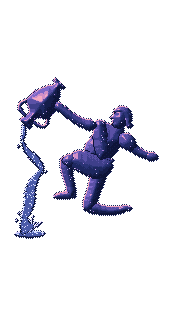
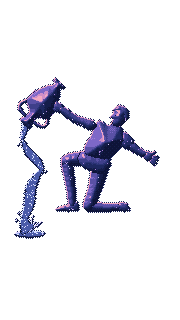
art: the water carrier kneels on the ground, with a neck, a clean tunic, open hand and gripping hand
The near foot now rests on the same ground as the far knee (it floated 12 px up, so the figure
read as falling), the head sits on a visible neck with a smaller hair cap, an ear and an eye, the
mantle that cracked the chest is gone, the torso is rounder so its highlight is smaller, the
outstretched hand has fingers, the jar hand grips the belly and the water leaves the jar's mouth
without a gap.

diff --git a/tools/art/build_aquarius_figure.py b/tools/art/build_aquarius_figure.py
@@ -17,11 +17,14 @@ edges, stardust specks, a thin aura). Spheres and capsules suit a segmented scor
 drawn with them reads as a mannequin.
 
 The stars are points on the body, not its joints, so it keeps human proportions (about seven heads,
-kneeling): the shoulders on Sadalmelik and Sadalsuud, the head above them in profile facing the
-jar, the right arm out to the open hand on epsilon, the left arm holding up a Greek amphora
-(Sadachbia on the forearm, zeta on its belly, pi by its foot, eta at its mouth) tipped to pour, the
-tunic belted at theta, the near knee forward on lambda and the shin down through tau, the far knee
-on the ground at Skat, and the water pouring down the left through phi, psi and 98 to a splash.
+kneeling): the shoulders on Sadalmelik and Sadalsuud, the head on a neck above them in profile
+facing the jar, the right arm out to the open hand on epsilon, the left arm holding up a Greek
+amphora (Sadachbia on the forearm, zeta on its belly, pi by its foot, eta at its mouth), the hand
+round its belly, tipped to pour, the tunic belted at theta with a short skirt, the near thigh
+forward to the knee on lambda and the shin down through tau to a foot flat on the same ground as
+the far knee at Skat, and the water pouring from the jar's mouth down the left through phi, psi
+and 98 to a splash. The torso is one smooth piece of cloth: overlapping drapes on it read as
+cracks.
 The water is its own material on the cool M ramp (M3-M6, a D0 rim, sparse glints).
 No colour outside the Stellar Sun palette; every pixel opaque or empty.
 
@@ -136,6 +139,7 @@ class Shapes(sc.Solids):
         super().__init__()
         self.mat = "body"
         self.mats = []
+        self.eyes = []
 
     def _put(self, *args, **kwargs):
         self.mats.append(self.mat)
@@ -224,73 +228,79 @@ def splash(S, at, width=15.0, lift=-14.0):
     S.mat = "body"
 
 
-def head_in_profile(S, head, lift):
-    """A head in profile facing left: brow, nose, lips and chin; hair falling in curls at the
-    back; a fillet band round it."""
+def head_in_profile(S, head, lift, eye=True):
+    """A head in profile facing left: a round skull, brow, straight nose, lips and a firm chin,
+    the jaw back to an ear; short curled hair capping the back of the skull, a fillet band."""
     head = v(head)
 
     def P(x, y):
         return head + v((x, y))
 
-    face = [P(-7, -6), P(-8, -2), P(-11, 1), P(-8, 2), P(-9, 4), P(-7, 5), P(-8, 7), P(-5, 10),
-            P(1, 10), P(6, 7), P(8, 0), P(5, -8), P(-2, -10)]
+    face = [P(-5, -8), P(-7, -4), P(-7, -2), P(-10, 2), P(-7, 3), P(-8, 5), P(-7, 6), P(-7, 8),
+            P(-4, 10), P(1, 10), P(5, 7), P(7, 1), P(7, -5), P(2, -9)]
     S.shape(face, depth=7, lift=lift)
-    hair = [P(-6, -8), P(-1, -11), P(6, -10), P(10, -5), P(11, 1), P(10, 6), P(12, 9), P(8, 11),
-            P(5, 8), P(4, 2), P(1, -3), P(-4, -4), P(-7, -5)]
-    S.shape(hair, depth=5, lift=lift + 2)
-    S.shape(limb([P(-6, -6), P(0, -8), P(7, -5), P(10, -2)], [0.9, 1.0, 1.0, 0.9]), depth=1.2, lift=lift + 4)
+    hair = [P(-6, -7), P(-2, -10), P(4, -9), P(8, -5), P(9, 0), P(8, 4), P(5, 6), P(3, 2), P(1, -2),
+            P(-3, -4), P(-6, -5)]
+    S.shape(hair, depth=4, lift=lift + 1.5)
+    S.shape(limb([P(-6, -5), P(-1, -7), P(5, -6), P(8, -4)], [0.8, 0.9, 0.9, 0.8]), depth=1.0, lift=lift + 3)
+    S.shape(limb([P(1, 3), P(2, 5)], [1.3, 1.3]), depth=1.0, lift=lift + 0.5)  # the ear
+    if eye:
+        S.eyes.append(tuple(np.round(P(-5, 0)).astype(int)))
 
 
 def build_figure(S):
     hand, sadalsuud, sadalmelik, sadachbia, zeta, eta, pi, theta, knee, tau, skat, phi, psi, s98 = map(v, L)
-    up = np.array([0.52, -0.85])
+    up = np.array([0.45, -0.89])
     mid = (sadalmelik + sadalsuud) / 2
+    ground = 210.0
 
-    # The far leg, behind: the thigh from under the tunic to the knee on the ground (Skat), the
-    # shin lying back, the foot.
+    # The far leg, behind: the thigh from under the tunic down to the knee on the ground (Skat),
+    # the shin lying back along the ground, the toes curled under.
     S.tag = "legs"
-    S.shape(limb([(100, 168), (94, 188), skat], [8.0, 7.0, 6.0]), depth=7, lift=-12)
-    S.shape(limb([skat, (106, 210), (122, 209)], [5.5, 4.6, 3.6]), depth=5, lift=-12.5)
-    S.shape([(118, 206), (128, 205), (131, 209), (119, 212)], depth=3, lift=-11.5)
-    # The near leg: the shin from the knee (lambda) down through tau, the foot flat.
-    S.shape(limb([knee, (67, 174), tau, (71, 193)], [6.5, 5.4, 4.6, 4.0]), depth=6, lift=-6)
-    S.shape([(73, 189), (74, 197), (56, 198), (54, 194), (62, 191)], depth=3, lift=-5)
+    S.shape(limb([(100, 164), (95, 186), skat], [8.0, 7.0, 5.6]), depth=7, lift=-12)
+    S.shape(limb([skat, (106, 207), (120, 206)], [5.2, 4.4, 3.4]), depth=5, lift=-12.5)
+    S.shape([(118, 202), (126, 203), (129, ground), (118, ground)], depth=3, lift=-11.5)
+    # The near leg: the thigh forward to the knee (lambda), the shin down through tau to the ankle,
+    # the foot flat on the same ground as the far knee.
+    S.shape(limb([(96, 160), (80, 158), knee], [8.0, 7.0, 6.0]), depth=7, lift=-4)
+    S.shape(limb([knee, tau, (72, ground - 6)], [5.6, 4.6, 3.6]), depth=6, lift=-6)
+    S.shape([(76, ground - 9), (77, ground), (56, ground), (57, ground - 3), (66, ground - 6)], depth=3, lift=-5)
 
-    # The tunic: the torso from the shoulders to the waist (theta), the skirt over the hips and the
-    # near thigh, a belt, a mantle over the left shoulder.
+    # The tunic: the torso from the shoulders to the waist (theta), a belt, a short skirt over the
+    # hips ending above the knees.
     S.tag = "body"
-    torso = [sadalmelik + v((-3, 0)), sadalmelik + v((-6, 10)), (84, 146), (86, 158), (104, 162),
-             (114, 154), (120, 146), sadalsuud + v((3, 1)), sadalsuud + v((0, -6)), mid + up * 8 + v((6, 0)),
-             mid + up * 8 + v((-6, -2)), sadalmelik + v((2, -4))]
-    S.shape(torso, depth=11, lift=0)
-    skirt = [(82, 150), (106, 158), (112, 166), (106, 175), (92, 177), (78, 171), (68, 166), (64, 159), (70, 153)]
-    S.shape(skirt, depth=7, lift=5)
-    S.shape(limb([(83, 153), (111, 160)], [1.4, 1.4]), depth=1.0, lift=6)
-    mantle = [sadalmelik + v((-4, -1)), sadalmelik + v((4, -4)), (106, 134), (108, 152), (100, 158), (94, 146)]
-    S.shape(mantle, depth=6, lift=8)
-    S.shape(limb([mid + up * 6, mid + up * 12], [4.5, 4.2]), depth=4, lift=1)
-    head_in_profile(S, mid + up * 18.0, lift=12)
-
-    # The near knee shows through the drape (lambda sits on it).
-    S.tag = "legs"
-    S.shape(limb([knee + v((6, -1)), knee], [5.5, 5.0]), depth=4, lift=7)
+    torso = [sadalmelik + v((-4, 1)), sadalmelik + v((-7, 10)), (84, 146), (86, 156), (104, 160),
+             (114, 154), (120, 147), sadalsuud + v((3, 2)), sadalsuud + v((1, -5)), mid + up * 7 + v((5, 0)),
+             mid + up * 7 + v((-6, -1)), sadalmelik + v((1, -4))]
+    S.shape(torso, depth=18, lift=0)
+    skirt = [(84, 151), (106, 157), (110, 165), (104, 172), (92, 171), (82, 166), (78, 158)]
+    S.shape(skirt, depth=6, lift=3)
+    S.shape(limb([(84, 152), (108, 159)], [1.3, 1.3]), depth=1.0, lift=4)
+    neck_base = mid + up * 4
+    head = mid + up * 19.0
+    S.shape(limb([neck_base, lerp(neck_base, head, 0.8)], [4.2, 3.6]), depth=4, lift=1)
+    head_in_profile(S, head, lift=6)
 
     # The right arm: a short sleeve, the bare arm out and down to the open hand on epsilon.
     S.tag = "hand"
-    elbow = v((138, 151))
-    S.shape(limb([sadalsuud + v((0, -2)), lerp(sadalsuud, elbow, 0.45)], [7.0, 6.5]), depth=6, lift=6)
-    S.shape(limb([sadalsuud, elbow, (147, 155)], [5.2, 4.2, 3.4]), depth=5, lift=4)
-    S.shape([(146, 152), (153, 152), (157, 155), (156, 159), (149, 160), (145, 157)], depth=3, lift=5)
+    elbow = v((137, 150))
+    wrist = v((145, 154))
+    S.shape(limb([sadalsuud + v((-2, -3)), lerp(sadalsuud, elbow, 0.4)], [6.2, 5.6]), depth=5, lift=5)
+    S.shape(limb([sadalsuud, elbow, wrist], [4.8, 3.9, 3.0]), depth=5, lift=4)
+    open_hand(S, wrist, wrist - elbow + v((0, 1)), lift=4.5)
 
-    # The left arm from beside the shoulder to the amphora (Sadachbia on the forearm), the hand at
-    # its side; the amphora tipped about 45 degrees, its foot up by pi, its mouth down at eta.
+    # The left arm from the shoulder up to the amphora (Sadachbia on the forearm), the hand round
+    # its belly; the amphora tipped about 45 degrees, its foot up by pi, its mouth down at eta.
     S.tag = "jar"
-    S.shape(limb([(91, 125), (84, 123), sadachbia, (57, 105)], [5.4, 4.8, 4.2, 3.8]), depth=5, lift=20)
+    S.shape(limb([sadalmelik + v((-7, 1)), (84, 122), sadachbia, (60, 108)], [5.2, 4.6, 4.0, 3.6]), depth=5, lift=20)
+    S.shape(limb([(61, 109), (55, 104)], [3.6, 3.4]), depth=3, lift=21)
+    for k in range(3):
+        S.shape(limb([(58 - k * 2, 111 - k), (54 - k * 2, 108 - k)], [1.2, 1.1]), depth=1.2, lift=21.5)
     amphora(S, foot=(60, 82), rim=(24, 124))
 
     # The water: from the mouth down the left through phi, psi and 98, drops breaking off, a splash.
     S.tag = "stream"
-    path = water(S, [(24, 126), (22, 140), (32, 156), phi, psi, s98, s98 + v((4, 12))], 2.0, 7.5)
+    path = water(S, [(25, 121), (22, 138), (32, 156), phi, psi, s98, s98 + v((4, 12))], 3.2, 7.5)
     droplets(S, path)
     splash(S, s98 + v((6, 12)))
 
@@ -433,6 +443,12 @@ def stardust(img):
                     img[y, x, :3] = RGB["N8"] if h % 3 else RGB["D0"]
 
 
+def eyes(S, img):
+    """Each head's eye: one dark pixel under the brow."""
+    for x, y in S.eyes:
+        img[y, x, :3] = RGB["N1"]
+
+
 def pieces(S, img):
     """The whole cut by part, as the Scorpio's: each pixel with its part's solid, each aura pixel
     with the body pixel beside it. Every star must lie on a part of its own part."""
@@ -468,6 +484,7 @@ def main():
     build_figure(S)
     img = shade(S)
     stardust(img)
+    eyes(S, img)
     sc.save(img, ART / "aquarius_figure.png")
     for part, piece in pieces(S, img).items():
         sc.save(piece, ART / f"aquarius_piece_{part}.png")
@@ -476,6 +493,7 @@ def main():
         STAGE_BUILDERS[part](stage, landmarks)
         painting = shade(stage)
         stardust(painting)
+        eyes(stage, painting)
         for x, y in landmarks:
             assert stage.owner[y, x] >= 0, f"{part}: landmark ({x}, {y}) sits on nothing"
         sc.save(painting, ART / f"aquarius_part_{part}.png")
